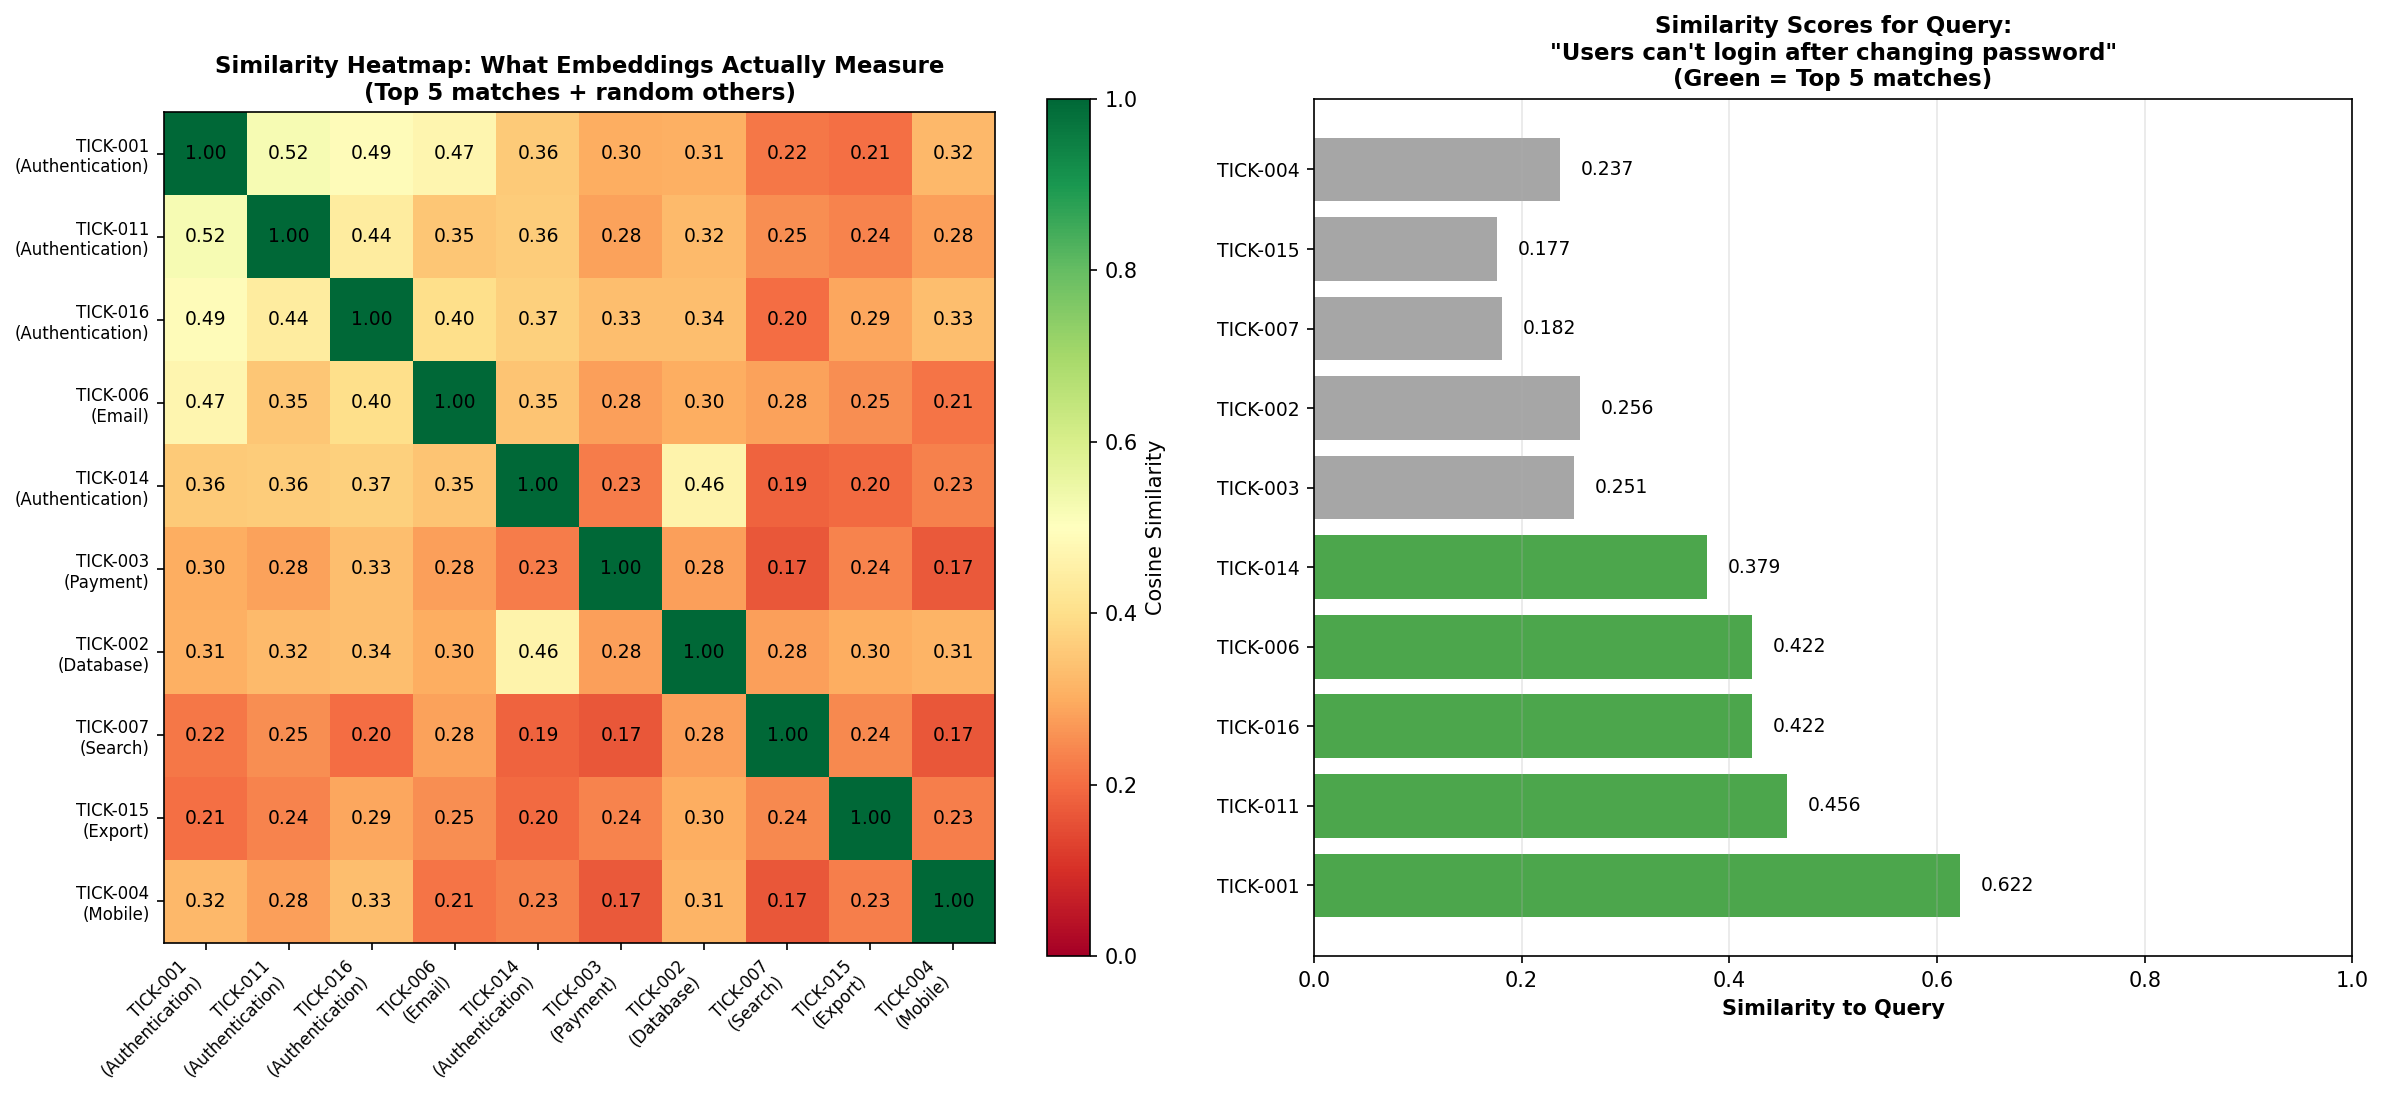
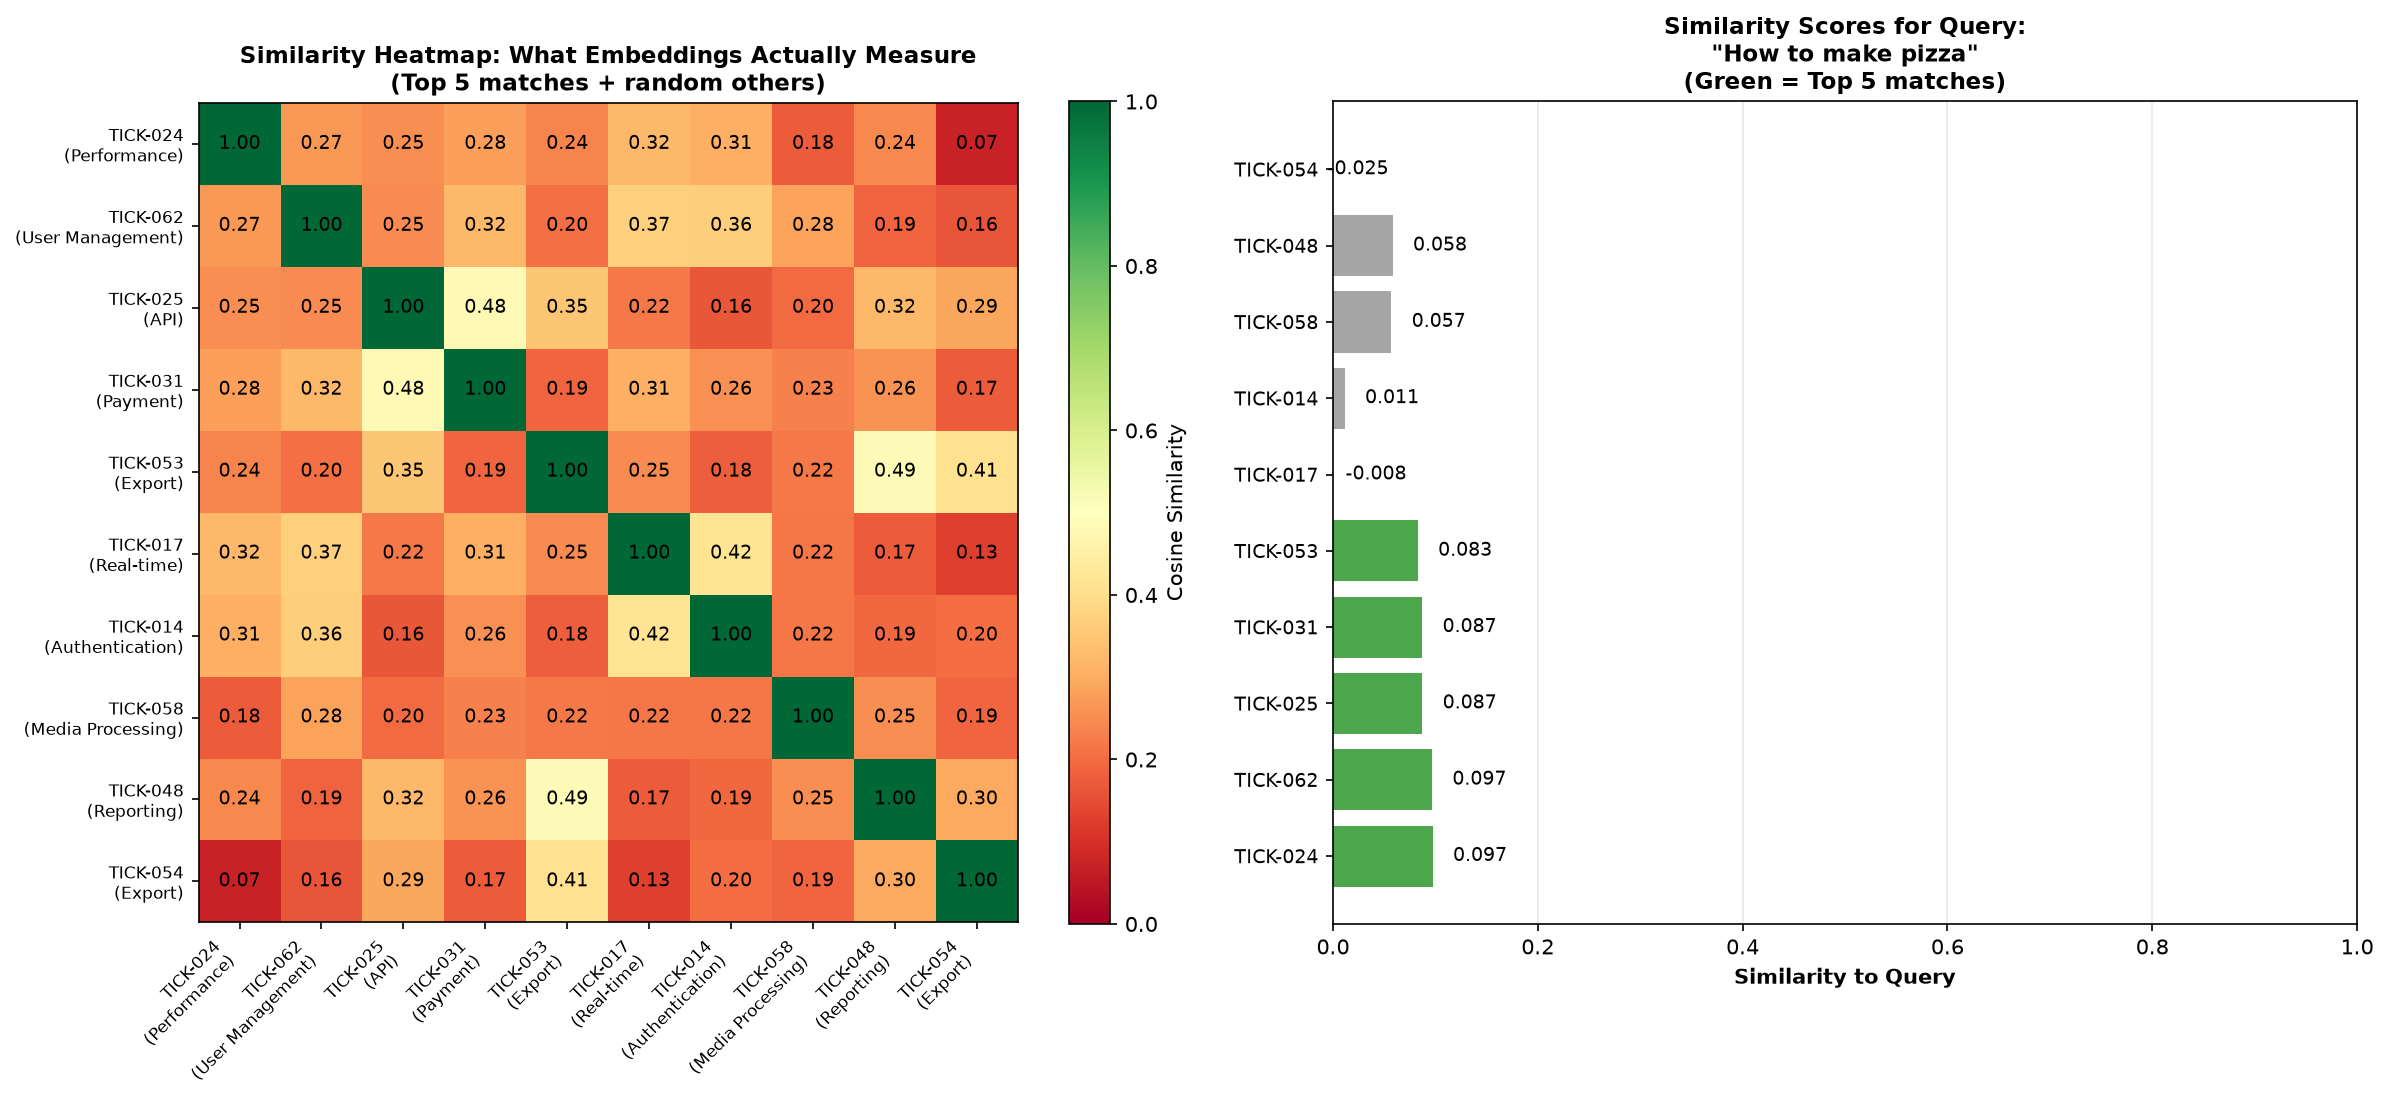
Make demo.py runnable from any directory and add query experiments
Resolve data and output paths relative to the script location, filter
results below 0.5 similarity, raise top_k to 10, and add a two-query
comparison section. Regenerate the similarity visualization.

diff --git a/modules/1_embeddings/demo.py b/modules/1_embeddings/demo.py
@@ -91,7 +91,8 @@ print(f"Embedding dimension: {embedding_dim}")
 # LOAD DATA: Support Tickets
 # =============================================================================
 print("\nLoading support tickets...")
-with open('../../data/synthetic_tickets.json', 'r') as f:
+_here = os.path.dirname(os.path.abspath(__file__))
+with open(os.path.join(_here, '../../data/synthetic_tickets.json'), 'r') as f:
     tickets = json.load(f)
 print(f"Loaded {len(tickets)} support tickets")
 
@@ -207,7 +208,7 @@ print("PART 2: Computing Similarity Scores")
 print("="*80)
 
 # Create a search query - this is what a user might type
-query = "Users can't login after changing password"
+query = "How to make pizza"
 print(f"\nSearch Query: '{query}'")
 
 # -----------------------------------------------------------------------------
@@ -274,7 +275,7 @@ print("PART 3: Finding Most Similar Tickets")
 print("="*80)
 
 # Get top-5 most similar tickets
-top_k = 5
+top_k = 10
 
 # np.argsort() returns indices that would sort the array (ascending)
 # [::-1] reverses to get descending order (highest similarity first)
@@ -287,6 +288,10 @@ print("-" * 80)
 for rank, idx in enumerate(top_indices, 1):
     ticket = tickets[idx]
     score = similarities[idx]
+    # Ignore tickets with similarity score less than 0.5
+    if score < 0.5:
+        continue
+    
     
     print(f"\n#{rank} - Similarity: {score:.4f}")
     print(f"Ticket ID: {ticket['ticket_id']}")
@@ -387,7 +392,7 @@ for i, score in enumerate(query_similarities):
     ax2.text(score + 0.02, i, f'{score:.3f}', va='center', fontsize=9)
 
 plt.tight_layout()
-plt.savefig('embeddings_similarity_analysis.png', dpi=150, bbox_inches='tight')
+plt.savefig(os.path.join(_here, 'embeddings_similarity_analysis.png'), dpi=150, bbox_inches='tight')
 print("✓ Visualization saved as 'embeddings_similarity_analysis.png'")
 print("\nKEY INSIGHTS FROM THIS VISUALIZATION:")
 print("  • Left heatmap: Shows TRUE pairwise similarities in 1536D space")
@@ -439,6 +444,24 @@ for test_query in test_queries:
     print(f"\nQuery: '{test_query}'")
     print(f"  → Best match: {tickets[top_idx]['title']}")
     print(f"  → Similarity: {sims[top_idx]:.4f}")
+
+# Compare two queries
+query1 = "Login authentication failed"
+query2 = "Slow database performance"
+
+print("\n" + "="*80)
+print("COMPARING TWO QUERIES")
+print("="*80)
+
+for q in [query1, query2]:
+    response = client.embeddings.create(input=[q], model=embedding_model)
+    q_emb = np.array([response.data[0].embedding])
+    sims = cosine_similarity(q_emb, embeddings)[0]
+    top_idx = np.argmax(sims)
+    
+    print(f"\nQuery: '{q}'")
+    print(f"  Best match: {tickets[top_idx]['title']}")
+    print(f"  Score: {sims[top_idx]:.4f}")
 
 # ============================================================================
 # SUMMARY